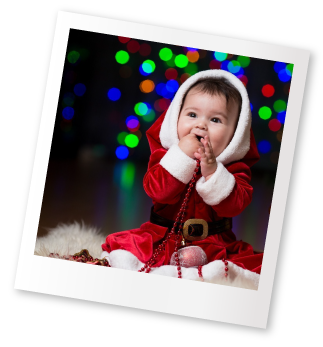
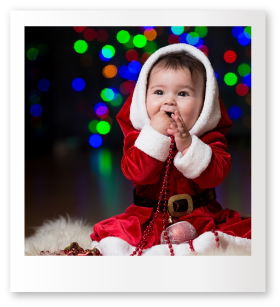
update theme and update slide for featured on homepage

diff --git a/assets/public/css/homepage.css b/assets/public/css/homepage.css
@@ -26,11 +26,11 @@ Author: hung.luong@matocreative.vn
 	border-radius: 37px;
 }
 
-.featured .item:hover{
+.featured .inner:hover{
 	border-radius: 37px;
 }
 
-.featured .item:hover a h2{
+.featured .inner:hover a h2{
 	color: #fff;
 }
 
@@ -184,5 +184,105 @@ Author: hung.luong@matocreative.vn
 	float: left;
 	margin-right: 10px;
 }
+
+/* ---------------- SLIDE HOMEPAGE ---------------- */
+
+.carousel-showmanymoveone .carousel-control {
+	width: 4%;
+	background-image: none;
+}
+.carousel-showmanymoveone .carousel-control.left {
+	margin-left: -30px;
+}
+.carousel-showmanymoveone .carousel-control.right {
+	margin-right: -30px;
+}
+.carousel-showmanymoveone .cloneditem-1,
+.carousel-showmanymoveone .cloneditem-2,
+.carousel-showmanymoveone .cloneditem-3 {
+	display: none;
+}
+@media all and (min-width: 768px) {
+	.carousel-showmanymoveone .carousel-inner > .active.left,
+	.carousel-showmanymoveone .carousel-inner > .prev {
+		left: -50%;
+	}
+	.carousel-showmanymoveone .carousel-inner > .active.right,
+	.carousel-showmanymoveone .carousel-inner > .next {
+		left: 50%;
+	}
+	.carousel-showmanymoveone .carousel-inner > .left,
+	.carousel-showmanymoveone .carousel-inner > .prev.right,
+	.carousel-showmanymoveone .carousel-inner > .active {
+		left: 0;
+	}
+	.carousel-showmanymoveone .carousel-inner .cloneditem-1 {
+		display: block;
+	}
+}
+@media all and (min-width: 768px) and (transform-3d), all and (min-width: 768px) and (-webkit-transform-3d) {
+	.carousel-showmanymoveone .carousel-inner > .item.active.right,
+	.carousel-showmanymoveone .carousel-inner > .item.next {
+		-webkit-transform: translate3d(50%, 0, 0);
+		transform: translate3d(50%, 0, 0);
+		left: 0;
+	}
+	.carousel-showmanymoveone .carousel-inner > .item.active.left,
+	.carousel-showmanymoveone .carousel-inner > .item.prev {
+		-webkit-transform: translate3d(-50%, 0, 0);
+		transform: translate3d(-50%, 0, 0);
+		left: 0;
+	}
+	.carousel-showmanymoveone .carousel-inner > .item.left,
+	.carousel-showmanymoveone .carousel-inner > .item.prev.right,
+	.carousel-showmanymoveone .carousel-inner > .item.active {
+		-webkit-transform: translate3d(0, 0, 0);
+		transform: translate3d(0, 0, 0);
+		left: 0;
+	}
+}
+@media all and (min-width: 992px) {
+	.carousel-showmanymoveone .carousel-inner > .active.left,
+	.carousel-showmanymoveone .carousel-inner > .prev {
+		left: -25%;
+	}
+	.carousel-showmanymoveone .carousel-inner > .active.right,
+	.carousel-showmanymoveone .carousel-inner > .next {
+		left: 25%;
+	}
+	.carousel-showmanymoveone .carousel-inner > .left,
+	.carousel-showmanymoveone .carousel-inner > .prev.right,
+	.carousel-showmanymoveone .carousel-inner > .active {
+		left: 0;
+	}
+	.carousel-showmanymoveone .carousel-inner .cloneditem-2,
+	.carousel-showmanymoveone .carousel-inner .cloneditem-3 {
+		display: block;
+	}
+}
+@media all and (min-width: 992px) and (transform-3d), all and (min-width: 992px) and (-webkit-transform-3d) {
+	.carousel-showmanymoveone .carousel-inner > .item.active.right,
+	.carousel-showmanymoveone .carousel-inner > .item.next {
+		-webkit-transform: translate3d(25%, 0, 0);
+		transform: translate3d(25%, 0, 0);
+		left: 0;
+	}
+	.carousel-showmanymoveone .carousel-inner > .item.active.left,
+	.carousel-showmanymoveone .carousel-inner > .item.prev {
+		-webkit-transform: translate3d(-25%, 0, 0);
+		transform: translate3d(-25%, 0, 0);
+		left: 0;
+	}
+	.carousel-showmanymoveone .carousel-inner > .item.left,
+	.carousel-showmanymoveone .carousel-inner > .item.prev.right,
+	.carousel-showmanymoveone .carousel-inner > .item.active {
+		-webkit-transform: translate3d(0, 0, 0);
+		transform: translate3d(0, 0, 0);
+		left: 0;
+	}
+}
+
+
+
 
 

diff --git a/assets/public/theme/xmas/css/theme.css b/assets/public/theme/xmas/css/theme.css
@@ -45,14 +45,18 @@ Author: hung.luong@matocreative.vn
     height: 364px;
     left: 55%;
     top: 25%;
-    margin-top: -170px;
-    margin-left: -158px;
+    margin-top: -138px;
+    margin-left: -153px;
 
     z-index: 13;
 
     background-image: url(../img/frame_03.png);
     background-repeat: no-repeat;
     background-position: center center;
+    -webkit-transform: rotate(5deg);
+    -moz-transform: rotate(5deg);
+    -o-transform: rotate(5deg);
+    transform: rotate(5deg);
 }
 
 #frame_02{
@@ -60,14 +64,18 @@ Author: hung.luong@matocreative.vn
     height: 347px;
     left: 30%;
     top: 40%;
-    margin-top: -173px;
-    margin-left: -161px;
+    margin-top: -143px;
+    margin-left: -130px;
 
     z-index: 12;
 
     background-image: url(../img/frame_02.png);
     background-repeat: no-repeat;
     background-position: center center;
+    -webkit-transform: rotate(-10deg);
+    -moz-transform: rotate(-10deg);
+    -o-transform: rotate(-10deg);
+    transform: rotate(-10deg);
 }
 
 #frame_03{
@@ -75,14 +83,18 @@ Author: hung.luong@matocreative.vn
     height: 341px;
     left: 40%;
     top: 60%;
-    margin-top: -182px;
-    margin-left: -171px;
+    margin-top: -154px;
+    margin-left: -140px;
 
     z-index: 11;
 
     background-image: url(../img/frame_01.png);
     background-repeat: no-repeat;
     background-position: center center;
+    -webkit-transform: rotate(20deg);
+    -moz-transform: rotate(20deg);
+    -o-transform: rotate(20deg);
+    transform: rotate(20deg);
 }
 
 .footer_img{
@@ -93,6 +105,8 @@ Author: hung.luong@matocreative.vn
     left: 50%;
     margin-left: -960px;
     background-repeat: no-repeat;
+
+    z-index: -1;
 }
 
 #footer_index_about{
@@ -123,7 +137,7 @@ Author: hung.luong@matocreative.vn
     border: 5px solid #d83f3f;
 }
 
-#featured_01 .featured .item:hover {
+#featured_01 .featured .inner:hover {
     background: #d83f3f;
     color: #fff;
 }
@@ -212,6 +226,13 @@ a h1, a h2{
 
 ul.list-unstyled li{
     background-image: url(../img/bg_list.png);
+}
+
+.carousel-showmanymoveone#slideFeatured_01 .carousel-control.left {
+    color: #d83f3f;
+}
+.carousel-showmanymoveone#slideFeatured_01 .carousel-control.right {
+    color: #d83f3f;
 }
 
 /* CSS Footer */

diff --git a/assets/public/theme/original/css/theme.css b/assets/public/theme/original/css/theme.css
@@ -53,6 +53,10 @@ Author: hung.luong@matocreative.vn
     background-image: url(../img/frame_01.png);
     background-repeat: no-repeat;
     background-position: center center;
+    -webkit-transform: rotate(20deg);
+    -moz-transform: rotate(20deg);
+    -o-transform: rotate(20deg);
+    transform: rotate(20deg);
 }
 
 #frame_02{
@@ -68,6 +72,10 @@ Author: hung.luong@matocreative.vn
     background-image: url(../img/frame_02.png);
     background-repeat: no-repeat;
     background-position: center center;
+    -webkit-transform: rotate(-10deg);
+    -moz-transform: rotate(-10deg);
+    -o-transform: rotate(-10deg);
+    transform: rotate(-10deg);
 }
 
 #frame_03{
@@ -83,6 +91,10 @@ Author: hung.luong@matocreative.vn
     background-image: url(../img/frame_03.png);
     background-repeat: no-repeat;
     background-position: center center;
+    -webkit-transform: rotate(5deg);
+    -moz-transform: rotate(5deg);
+    -o-transform: rotate(5deg);
+    transform: rotate(5deg);
 }
 
 .footer_img{
@@ -93,6 +105,8 @@ Author: hung.luong@matocreative.vn
     left: 50%;
     margin-left: -960px;
     background-repeat: no-repeat;
+
+    z-index: -1;
 }
 
 #footer_index_about{
@@ -116,11 +130,11 @@ Author: hung.luong@matocreative.vn
     color: #fff;
 }
 
-.featured .inner img{
+#featured_01 .featured .inner img{
     border: 5px solid #f4aa1c;
 }
 
-.featured .item:hover {
+#featured_01 .featured .inner:hover {
     background: #f4aa1c;
     color: #fff;
 }
@@ -208,6 +222,13 @@ a h1, a h2{
 
 ul.list-unstyled li{
     background-image: url(../img/bg_list.png);
+}
+
+.carousel-showmanymoveone#slideFeatured_01 .carousel-control.left {
+    color: #f4aa1c;
+}
+.carousel-showmanymoveone#slideFeatured_01 .carousel-control.right {
+    color: #f4aa1c;
 }
 
 /* CSS Footer */

diff --git a/assets/public/js/homepage.js b/assets/public/js/homepage.js
@@ -1,27 +1,26 @@
-$(document).ready(function(){
-    'use strict';
+(function(){
+    // setup your carousels as you normally would using JS
+    // or via data attributes according to the documentation
+    // https://getbootstrap.com/javascript/#carousel
+    $('#slideFeatured_01').carousel({ interval: 2000 });
+}());
 
-    $(function () {
-        $('[data-toggle="tooltip"]').tooltip();
-    });
-
-    $('#itemslider').carousel({ interval: 3000 });
-
+(function(){
     $('.carousel-showmanymoveone .item').each(function(){
         var itemToClone = $(this);
 
-        for (var i=1;i<2;i++) {
+        for (var i=1;i<4;i++) {
             itemToClone = itemToClone.next();
 
+            // wrap around if at end of item collection
             if (!itemToClone.length) {
                 itemToClone = $(this).siblings(':first');
             }
 
+            // grab item, clone, add marker class, add to collection
             itemToClone.children(':first-child').clone()
                 .addClass("cloneditem-"+(i))
                 .appendTo($(this));
         }
     });
-
-
-});
+}());

diff --git a/application/views/homepage_view.php b/application/views/homepage_view.php
@@ -80,6 +80,55 @@
         </div>
 
         <div class="row featured">
+            <div class="col-md-12">
+                <div class="carousel carousel-showmanymoveone slide" id="slideFeatured_01">
+                    <div class="carousel-inner">
+                        <div class="item active">
+                            <div class="col-md-3 col-sm-6 col-xs-12">
+                                <div class="inner">
+                                    <a href="<?php echo base_url('gioi-thieu/muc-tieu') ?>"><img class="img-rounded" src="<?php echo site_url('assets/public/img/photo/muc-tieu.jpg') ?>" alt="featured_1_1"></a>
+                                    <a href="<?php echo base_url('gioi-thieu/muc-tieu') ?>"><h2>Mục tiêu</h2></a>
+                                    <p>Lorem ipsum dolor sit amet, consectetur adipiscing elit. Mauris et feugiat est. Donec eu lobortis tellus. Praesent erat lectus, eleifend facilisis nulla</p>
+                                </div>
+                            </div>
+                        </div>
+                        <div class="item">
+                            <div class="col-md-3 col-sm-6 col-xs-12">
+                                <div class="inner">
+                                    <a href="<?php echo base_url('gioi-thieu/ngoai-ngu') ?>"><img class="img-rounded" src="<?php echo site_url('assets/public/img/photo/ngoai-ngu.jpg') ?>" alt="featured_1_2"></a>
+                                    <a href="<?php echo base_url('gioi-thieu/ngoai-ngu') ?>"><h2>Ngoại ngữ</h2></a>
+                                    <p>Lorem ipsum dolor sit amet, consectetur adipiscing elit. Mauris et feugiat est. Donec eu lobortis tellus. Praesent erat lectus, eleifend facilisis nulla</p>
+                                </div>
+                            </div>
+                        </div>
+                        <div class="item">
+                            <div class="col-md-3 col-sm-6 col-xs-12">
+                                <div class="inner">
+                                    <a href="<?php echo base_url('gioi-thieu/giao-duc-theo-lua-tuoi') ?>"><img class="img-rounded" src="<?php echo site_url('assets/public/img/photo/gdmlt.jpg') ?>" alt="featured_1_3"></a>
+                                    <a href="<?php echo base_url('gioi-thieu/giao-duc-theo-lua-tuoi') ?>"><h2>Giáo dục theo lứa tuổi</h2></a>
+                                    <p>Lorem ipsum dolor sit amet, consectetur adipiscing elit. Mauris et feugiat est. Donec eu lobortis tellus. Praesent erat lectus, eleifend facilisis nulla</p>
+                                </div>
+                            </div>
+                        </div>
+                        <div class="item">
+                            <div class="col-md-3 col-sm-6 col-xs-12">
+                                <div class="inner">
+                                    <a href="<?php echo base_url('gioi-thieu/tap-huan') ?>"><img class="img-rounded" src="<?php echo site_url('assets/public/img/photo/tap-huan.jpg') ?>" alt="featured_1_4"></a>
+                                    <a href="<?php echo base_url('gioi-thieu/tap-huan') ?>"><h2>Tập huấn</h2></a>
+                                    <p>Lorem ipsum dolor sit amet, consectetur adipiscing elit. Mauris et feugiat est. Donec eu lobortis tellus. Praesent erat lectus, eleifend facilisis nulla</p>
+                                </div>
+                            </div>
+                        </div>
+
+                    </div>
+                    <a class="left carousel-control" href="#slideFeatured_01" data-slide="prev"><i class="glyphicon glyphicon-chevron-left"></i></a>
+                    <a class="right carousel-control" href="#slideFeatured_01" data-slide="next"><i class="glyphicon glyphicon-chevron-right"></i></a>
+                </div>
+            </div>
+        </div>
+
+
+        <!--<div class="row featured">
             <div class="item col-md-3 col-sm-6 col-xs-12 wow fadeInUp" data-wow-delay="0.0s">
                 <div class="inner">
                     <a href="<?php echo base_url('gioi-thieu/muc-tieu') ?>"><img class="img-rounded" src="<?php echo site_url('assets/public/img/photo/muc-tieu.jpg') ?>" alt="featured_1_1"></a>
@@ -112,7 +161,7 @@
                 </div>
             </div>
 
-            <div class="item col-md-12 col-sm-12 col-xs-12 wow fadeInUp" data-wow-delay="0.5s">
+            <div class="item col-md-3 col-sm-6 col-xs-12 wow fadeInUp" data-wow-delay="0.5s">
                 <div class="inner">
                     <div class="row">
                         <div class="col-md-6 col-xs-12 col-xs-12">
@@ -125,7 +174,7 @@
                     </div>
                 </div>
             </div>
-        </div>
+        </div>-->
     </div>
 
     <div class="container-fluid" id="blogs">
